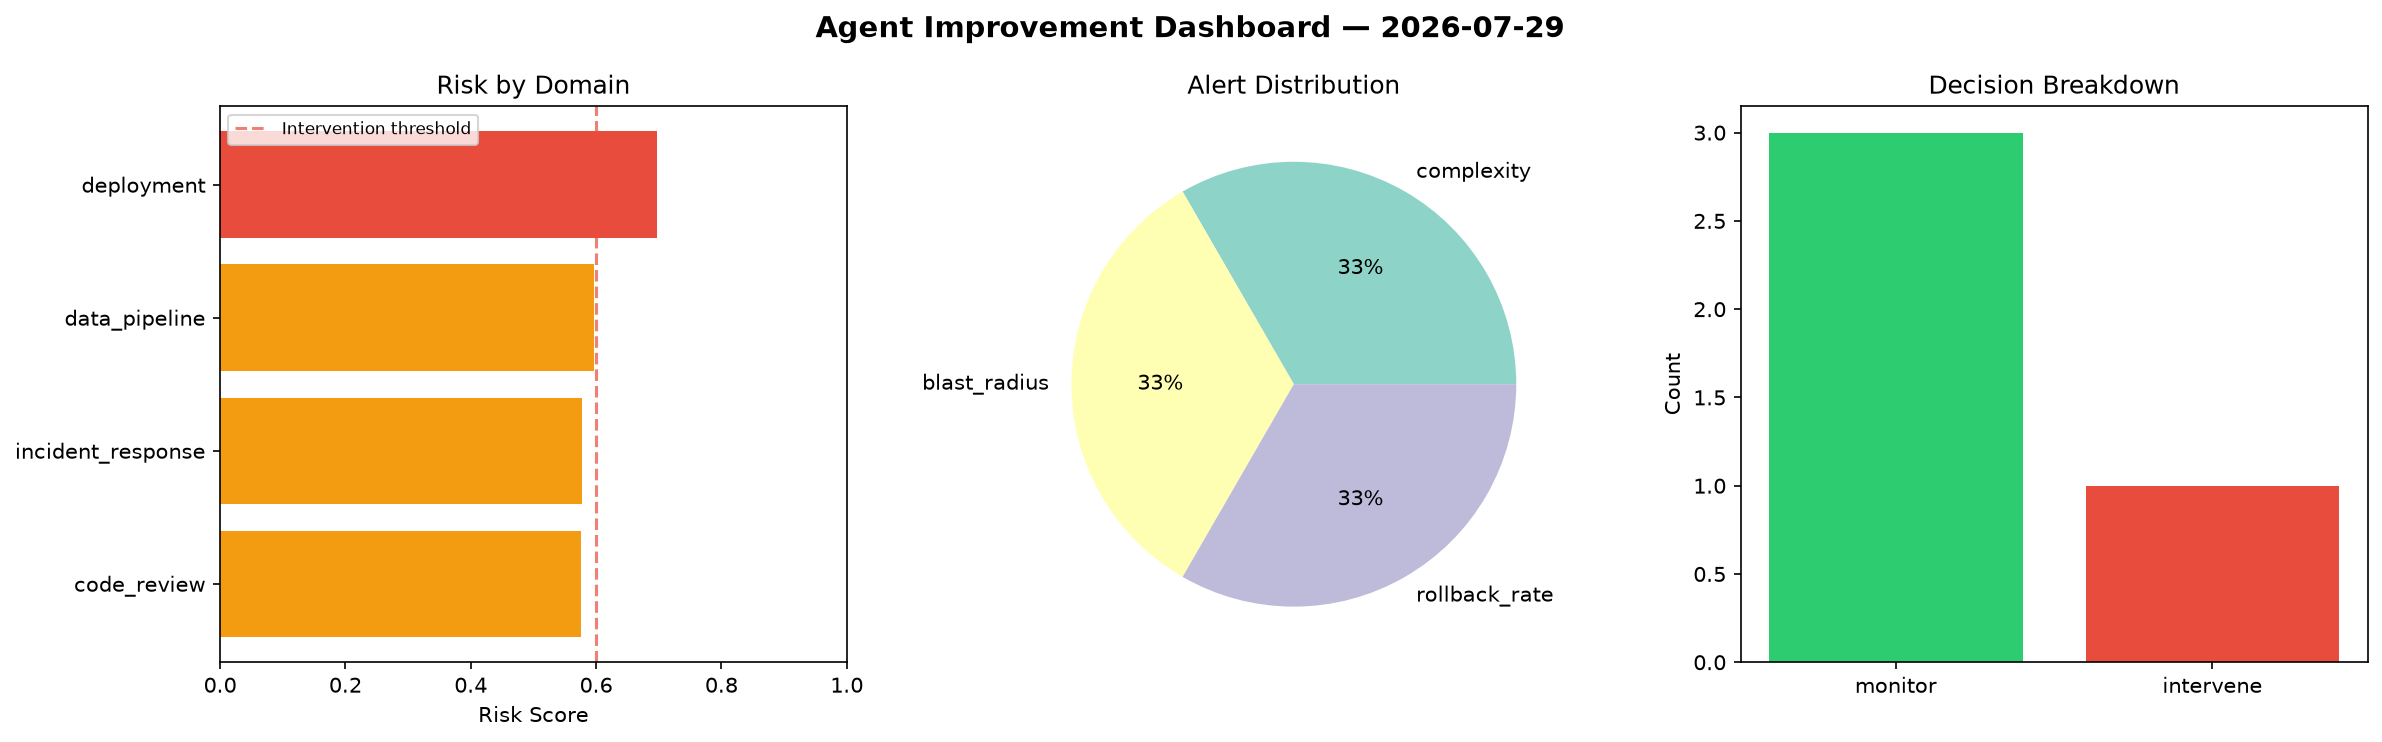
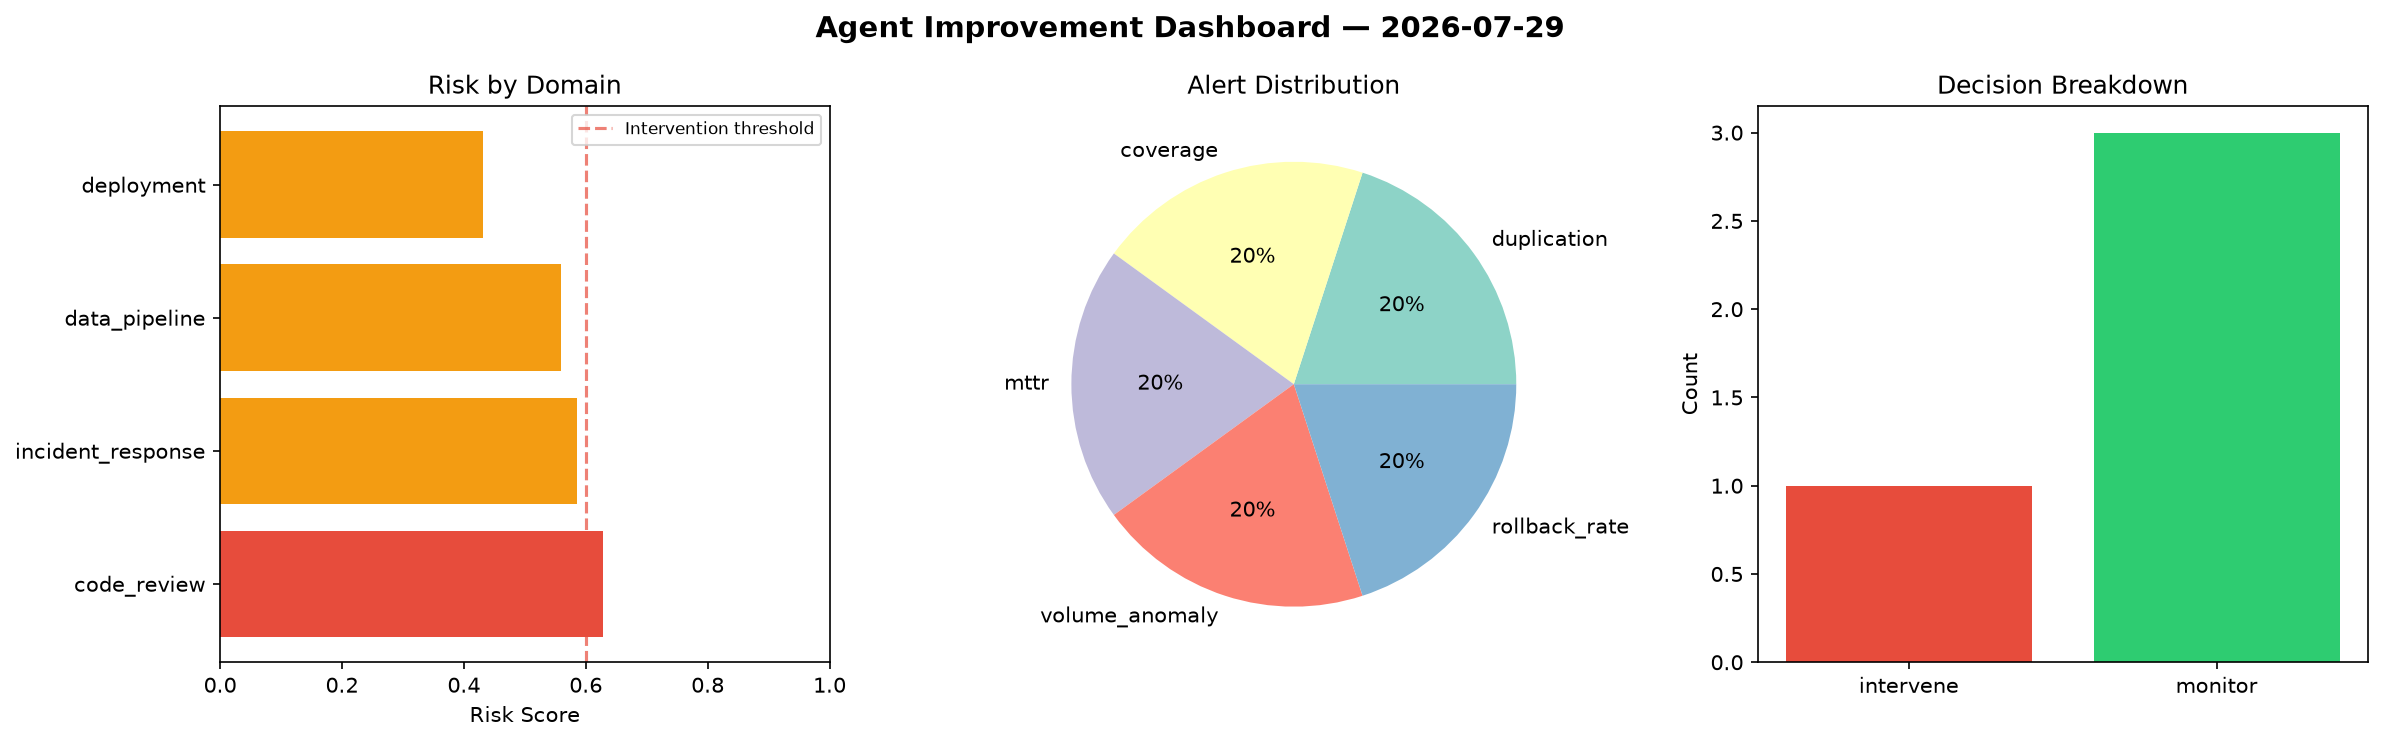
agent-improvement: daily cycle 2026-07-29T10:48

diff --git a/logs/2026-07-29.md b/logs/2026-07-29.md
@@ -1,6 +1,6 @@
 # Agent Improvement Report — 2026-07-29
 
-**Cycle ID:** `3f6f426a` | **Avg Risk:** 0.612 | **Interventions:** 1/4
+**Cycle ID:** `e2be38aa` | **Avg Risk:** 0.5512 | **Interventions:** 1/4
 
 ![Dashboard](2026-07-29_dashboard.png)
 
@@ -10,18 +10,18 @@
 
 | Domain | Risk Score | Decision | Alerts |
 |--------|-----------|----------|--------|
-| code_review | 0.5752 | monitor | complexity |
-| incident_response | 0.5782 | monitor | blast_radius |
-| data_pipeline | 0.5973 | monitor | none |
-| deployment | 0.6972 | intervene | rollback_rate |
+| code_review | 0.6282 | intervene | duplication, coverage |
+| incident_response | 0.5859 | monitor | mttr |
+| data_pipeline | 0.559 | monitor | volume_anomaly |
+| deployment | 0.4316 | monitor | rollback_rate |
 
 ## Delta vs Yesterday
 
 | Domain | Today | Yesterday | Change |
 |--------|-------|-----------|--------|
-| code_review | 0.5752 | 0.3756 | 📈 53.1% |
-| incident_response | 0.5782 | 0.6882 | 📉 -16.0% |
-| data_pipeline | 0.5973 | 0.6615 | 📉 -9.7% |
-| deployment | 0.6972 | 0.2903 | 📈 140.2% |
+| code_review | 0.6282 | 0.3756 | 📈 67.3% |
+| incident_response | 0.5859 | 0.6882 | 📉 -14.9% |
+| data_pipeline | 0.559 | 0.6615 | 📉 -15.5% |
+| deployment | 0.4316 | 0.2903 | 📈 48.7% |
 
-**Refinement:** `{'adjustment': 'tighten_thresholds', 'trend': 'degrading', 'window': 4}`
+**Refinement:** `{'adjustment': 'maintain', 'trend': 'improving', 'window': 4}`
